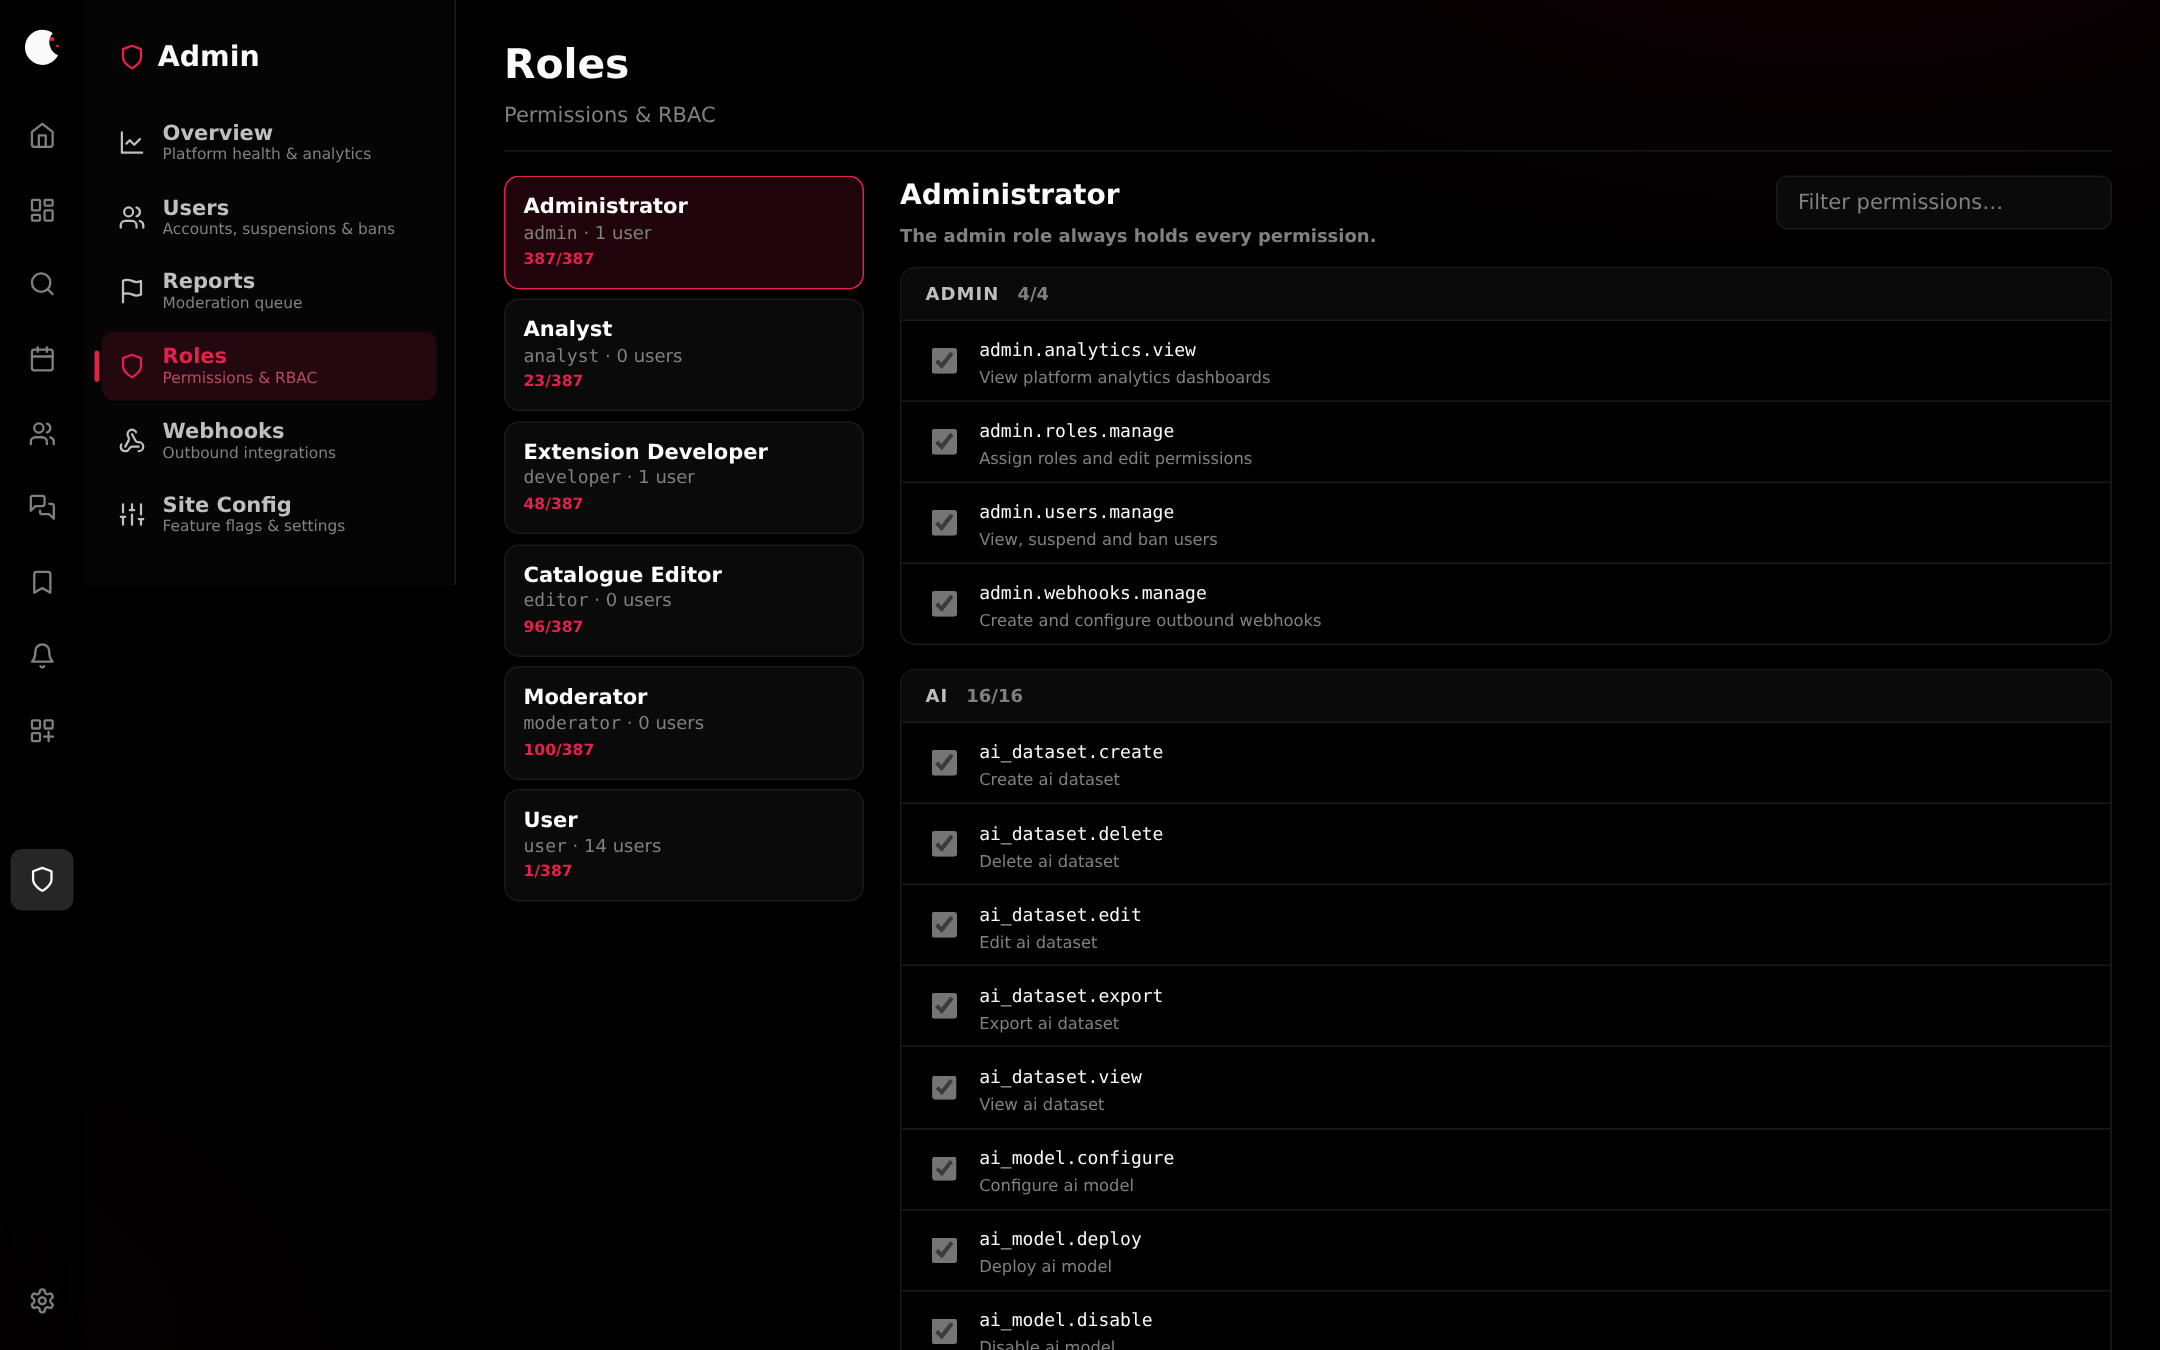
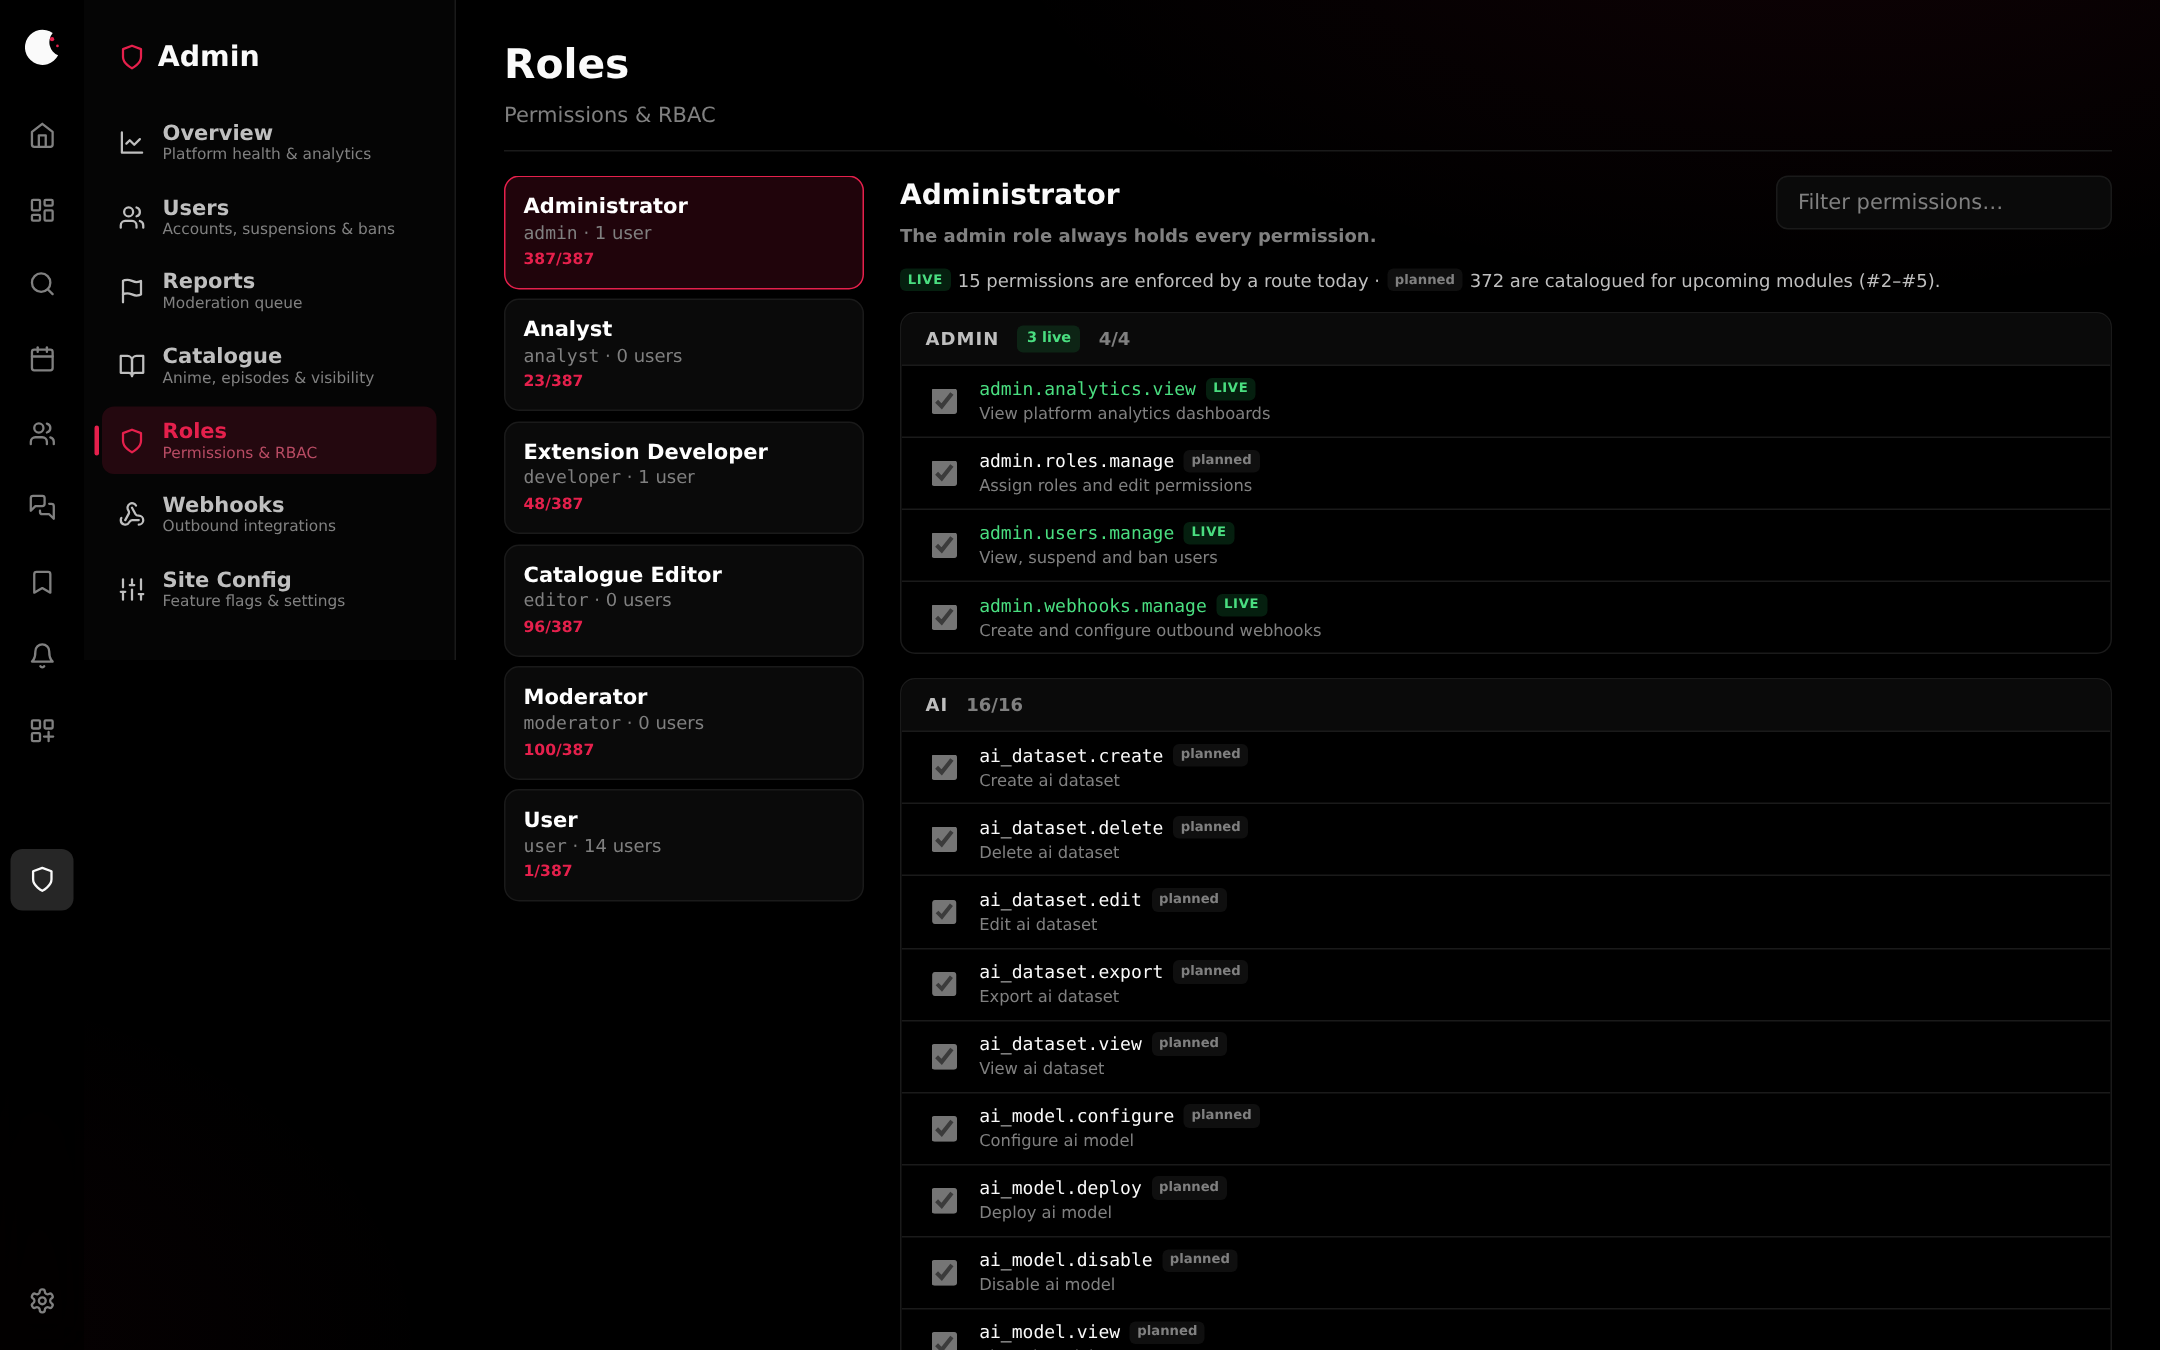
Mark permission catalogue live vs planned; document usage audit
The RBAC catalogue is the platform's full permission vocabulary and is
deliberately ahead of the features that consume it. Make that honest
instead of leaving 372 permissions looking dead:

- Migration 0014 adds permissions.status ('active' | 'planned') and
  marks the 15 slugs actually enforced by a route today as active.
- Roles admin UI surfaces it: a LIVE/planned legend, a per-group
  'n live' count, and a LIVE (green) / planned (grey) badge per
  permission. The roles catalogue endpoint returns status.
- docs/allapot.md gains a usage audit: 55 of 90 logical tables are
  wired vs 35 schema-only, mapped to their owning module (#2-#5); the
  15 active / 372 planned permission split with the rationale (personal
  endpoints are intentionally not permission-gated); and why the
  schema-only tables/permissions are kept rather than dropped.

Nothing is removed — the schema-only tables and planned permissions are
what modules #2-#5 build on; each is now documented with an owning
module and status so none is unaccounted for.

Claude-Session: https://claude.ai/code/session_01F6VbCQHrnryWxLpoFz5Tsm

diff --git a/web/js/pages/admin.js b/web/js/pages/admin.js
@@ -149,6 +149,14 @@ const PageAdmin = {
       ])
       panel.append(head)
 
+      const liveTotal = catalog.filter(p => p.status === 'active').length
+      panel.append(U.el('p', { class: 'perm-legend' }, [
+        U.el('span', { class: 'perm-badge perm-badge-live', text: 'LIVE' }),
+        document.createTextNode(` ${liveTotal} permissions are enforced by a route today · `),
+        U.el('span', { class: 'perm-badge perm-badge-planned', text: 'planned' }),
+        document.createTextNode(` ${total - liveTotal} are catalogued for upcoming modules (#2–#5).`)
+      ]))
+
       const listWrap = U.el('div', { class: 'perm-groups' })
       panel.append(listWrap)
 
@@ -158,9 +166,11 @@ const PageAdmin = {
           const visible = perms.filter(p => !state.filter || p.slug.includes(state.filter) || p.description.toLowerCase().includes(state.filter))
           if (!visible.length) continue
           const grantedInGroup = visible.filter(p => has(p.slug)).length
+          const liveInGroup = visible.filter(p => p.status === 'active').length
           const groupBox = U.el('div', { class: 'perm-group' }, [
             U.el('div', { class: 'perm-group-head' }, [
               U.el('span', { class: 'perm-group-title', text: group }),
+              liveInGroup ? U.el('span', { class: 'perm-live-count', title: `${liveInGroup} enforced by a route today`, text: `${liveInGroup} live` }) : null,
               U.el('span', { class: 'perm-group-count', text: `${grantedInGroup}/${visible.length}` }),
               isAdmin ? null : U.el('button', { class: 'btn btn-ghost btn-sm', onclick: () => bulk(visible, grantedInGroup < visible.length) }, [document.createTextNode(grantedInGroup < visible.length ? 'Grant all' : 'Revoke all')])
             ])
@@ -170,10 +180,15 @@ const PageAdmin = {
               type: 'checkbox', ...(has(p.slug) ? { checked: '' } : {}), ...(isAdmin ? { disabled: '' } : {}),
               onchange: e => toggle(p.slug, e.target.checked, e.target)
             })
-            groupBox.append(U.el('label', { class: 'perm-row' }, [
+            groupBox.append(U.el('label', { class: 'perm-row' + (p.status === 'active' ? ' perm-active' : '') }, [
               cb,
               U.el('div', { class: 'perm-info' }, [
-                U.el('code', { class: 'perm-slug', text: p.slug }),
+                U.el('div', { class: 'perm-slug-row' }, [
+                  U.el('code', { class: 'perm-slug', text: p.slug }),
+                  p.status === 'active'
+                    ? U.el('span', { class: 'perm-badge perm-badge-live', title: 'Enforced by a route today', text: 'LIVE' })
+                    : U.el('span', { class: 'perm-badge perm-badge-planned', title: 'Catalogued for an upcoming module', text: 'planned' })
+                ]),
                 U.el('span', { class: 'perm-desc', text: p.description })
               ])
             ]))

diff --git a/web/css/style.css b/web/css/style.css
@@ -2503,8 +2503,15 @@ svg.chart .chart-name { font-size: 12px; fill: var(--fg); dominant-baseline: mid
 .perm-row:hover { background: var(--bg-raised); }
 .perm-row input { accent-color: var(--accent); width: 1.05rem; height: 1.05rem; flex-shrink: 0; }
 .perm-info { min-width: 0; }
+.perm-slug-row { display: flex; align-items: center; gap: .4rem; }
 .perm-slug { font-family: var(--font-mono); font-size: var(--text-xs); color: var(--fg); }
 .perm-desc { display: block; font-size: .68rem; color: var(--fg-faint); }
+.perm-badge { flex-shrink: 0; font-size: .55rem; font-weight: var(--weight-bold); text-transform: uppercase; letter-spacing: .05em; padding: .1rem .32rem; border-radius: var(--radius-sm); line-height: 1.4; }
+.perm-badge-live { color: var(--green-400, #4ade80); background: color-mix(in oklab, var(--green-500, #22c55e) 16%, transparent); }
+.perm-badge-planned { color: var(--fg-faint); background: color-mix(in oklab, var(--fg-faint) 12%, transparent); text-transform: none; letter-spacing: 0; }
+.perm-row.perm-active .perm-slug { color: var(--green-400, #4ade80); }
+.perm-live-count { font-size: .6rem; font-weight: var(--weight-bold); color: var(--green-400, #4ade80); background: color-mix(in oklab, var(--green-500, #22c55e) 14%, transparent); padding: .12rem .4rem; border-radius: var(--radius-sm); }
+.perm-legend { font-size: var(--text-xs); color: var(--fg-muted); display: flex; align-items: center; gap: .3rem; flex-wrap: wrap; margin: 0 0 var(--space-3); }
 
 @media (max-width: 820px) {
   .roles-layout { grid-template-columns: 1fr; }

diff --git a/server/src/routes/roles.ts b/server/src/routes/roles.ts
@@ -27,7 +27,7 @@ const routes: FastifyPluginAsync = async fastify => {
 
   // the full permission catalogue, grouped for the UI
   fastify.get('/permissions', async () => {
-    const data = await query('SELECT slug, "group", description FROM permissions ORDER BY "group", slug')
+    const data = await query('SELECT slug, "group", description, status FROM permissions ORDER BY "group", slug')
     return { data }
   })
 

diff --git a/docs/allapot.md b/docs/allapot.md
@@ -204,6 +204,60 @@ kapja a jogait, felhasználóhoz a `user_roles` köti.
 Feloldás: `users → user_roles → role_permissions → permissions`
 (per‑request memo a `auth.ts` pluginban).
 
+### Jogosultság‑státusz — `active` vs `planned` (0014)
+
+A katalógus a platform teljes RBAC‑szótára, és **szándékosan a funkciók
+előtt jár**. Hogy semmi ne tűnjön „halottnak", minden jog `status` mezőt kap:
+
+- **`active`** — ma egy valós route kikényszeríti (`requirePermission` a kódban)
+- **`planned`** — katalogizált és kiosztható, de a funkciója még nincs kész (#2–#5)
+
+A Roles admin UI **LIVE / planned** jelvényt és csoportonkénti „n live" számot mutat.
+Jelenleg **15 `active`, 372 `planned`**. Ahogy egy modul beköt egy jogot,
+a státusza `active`‑ra vált (a `0014` UPDATE‑listáját bővítve).
+
+**A 15 élő jog:** `anime.view/create/edit/delete`, `episode.create/edit/delete`,
+`admin.analytics.view`, `admin.users.manage`, `admin.webhooks.manage`,
+`community.moderate`, `community.post`, `roles.manage`, `settings.system`,
+`extensions.publish`.
+
+> Miért nem több? A személyes végpontokat (saját könyvtár, profilok, like,
+> jelentés‑küldés) **helytelen** lenne joghoz kötni — ott sima `authenticate`
+> a helyes. A többi 372 jog a #2–#5 funkcióival válik élővé.
+
+---
+
+## 7b. Használat‑audit — mi él, mi séma (scaffolding)
+
+> Őszinte leltár: a séma előre ki van építve, hogy a következő modulok gyorsan
+> ráüljenek. Semmi sem „felesleges" — mindennek megvan a gazda‑modulja és státusza.
+
+**Táblák:** 90 logikai tábla (107 fizikai a havi particiókkal) — **55 használt
+(van rá szerver‑kód), 35 séma‑szintű**.
+
+| Réteg | Élő táblák (használt) | Séma‑szintű (jövőbeli modul) |
+|-------|----------------------|------------------------------|
+| Fiók/auth | `users`, `sessions` | `oauth_identities`, `api_keys`, `devices`, `user_settings` |
+| Katalógus | `anime`, `episodes`, `anime_titles/synonyms/mappings/genres/tags/companies/genres`, `anime_images`, `anime_relations` | `characters`, `people`, `anime_characters/staff`, `character_voices`, `anime_videos`, `anime_recommendations` |
+| Streaming | — (külső forrás) | `video_sources`, `source_mirrors`, `subtitle_tracks`, `audio_tracks`, `skip_segments`\* |
+| Könyvtár | `library_entries`, `watch_progress`, `watch_history` | `favorites`, `bookmarks`, `custom_lists(+items)`, `collections(+lists)`, `list_likes` |
+| Közösség | `comments`, `comment_likes`, `reports`, `moderation_actions` | `reviews`, `review_votes`, `follows`, `friendships`, `clubs(+members)`, `forums`, `topics`, `chats` |
+| Gamifikáció | `profile_stats`, `xp_events`, `watch_stats_daily` | `achievements`, `badges`, `user_badges`, `profile_achievements` |
+| Bővítmények | `extensions`, `extension_versions/installs/developers/permissions` | `extension_reviews` |
+| Rendszer | `roles`, `permissions`, `role_permissions`, `user_roles`, `notifications`, `webhooks`, `jobs`, `feature_flags`, `site_settings`, `watch_together_rooms`, analitika‑particiók | — |
+
+\* Az AniSkip jelenleg a **külső** AniSkip API‑ból megy, nem a `skip_segments` tábláiból.
+
+**Feature‑flagek:** 23 — **19 él** (15 `page.*` router‑gate + 4 funkció‑guard:
+`comments`, `hover_preview`, `image_search`, `watch_together`). 4 flag még a
+funkciójára vár: `reviews`/`custom_lists` (#2/#3), `trailers` (a funkció megvan,
+guard hátra), `registration` (a `site_settings.registration_open` szabályozza).
+
+**Miért tartjuk meg a séma‑szintű táblákat/jogokat?** Mert a #2–#5 modulok pont
+ezekre épülnek — most eldobni, majd újra létrehozni felesleges munka lenne.
+Ehelyett minden dokumentálva van (gazda‑modul + státusz), és a
+jogok/flagek státusza a UI‑ban is látszik.
+
 ---
 
 ## 8. Site‑konfiguráció / feature‑flag rendszer
